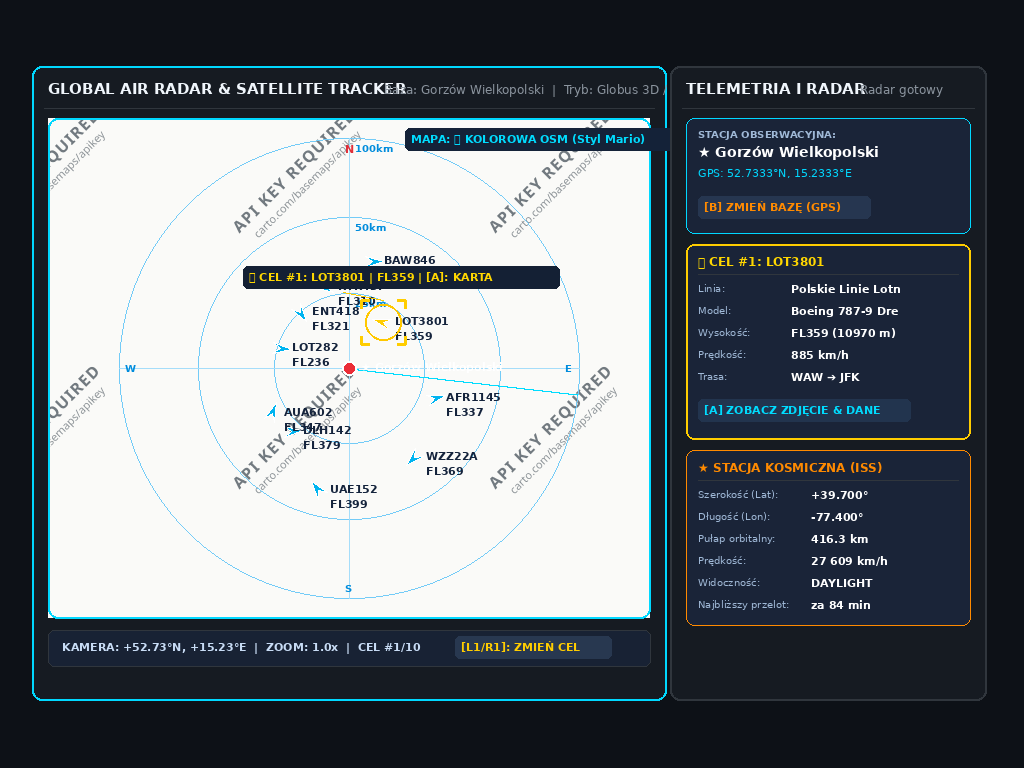
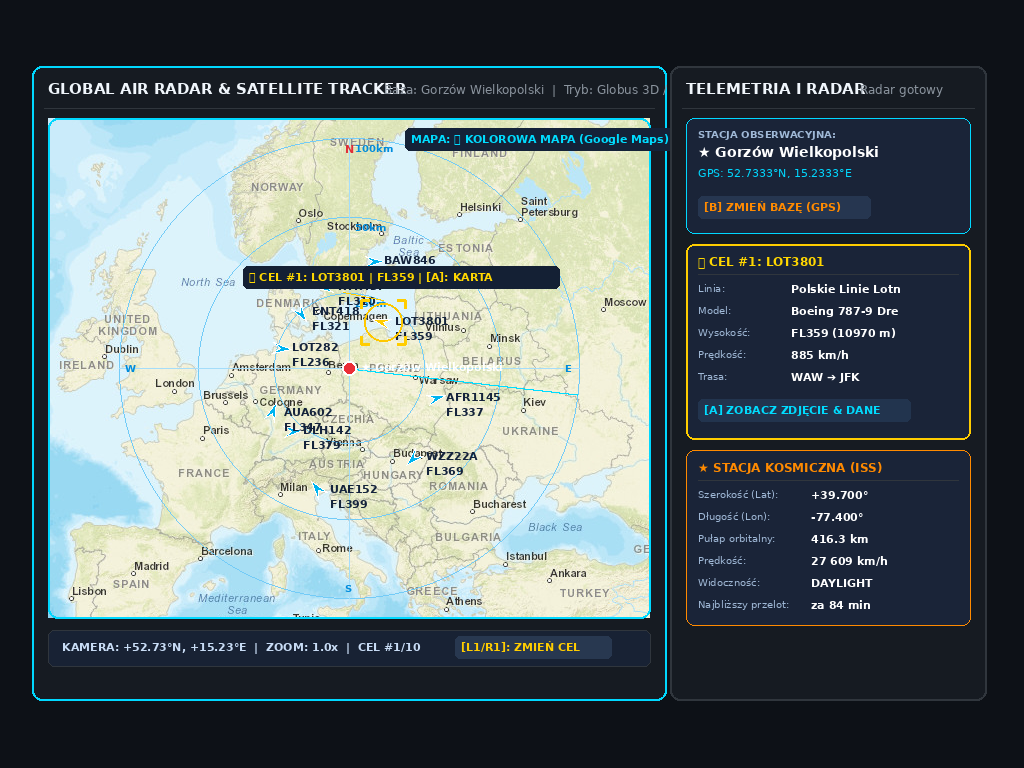
fix(tiles): Zastąpiono CartoDB otwartym serwerem ESRI Street Map (brak wymogu API key)

diff --git a/wasm.html b/wasm.html
@@ -1152,10 +1152,9 @@ json.dumps(py_mod.get_missing_tiles() if py_mod and hasattr(py_mod, 'get_missing
           let url = '';
           if (mode === 'SATELLITE') {
             url = `https://server.arcgisonline.com/ArcGIS/rest/services/World_Imagery/MapServer/tile/${z}/${y}/${x}.jpg`;
-          } else if (mode === 'VOYAGER') {
-            url = `https://basemaps.cartocdn.com/rastertiles/voyager/${z}/${x}/${y}.png`;
           } else {
-            url = `https://tile.openstreetmap.org/${z}/${x}/${y}.png`;
+            // Free open ArcGIS World Street Map: No API key required, full CORS support
+            url = `https://server.arcgisonline.com/ArcGIS/rest/services/World_Street_Map/MapServer/tile/${z}/${y}/${x}.jpg`;
           }
 
           try {

diff --git a/Apps/BrickDeck/modules/004_mod_air_radar.py b/Apps/BrickDeck/modules/004_mod_air_radar.py
@@ -118,7 +118,7 @@ class MapTileManager:
         if key in self.mem_cache:
             return self.mem_cache[key]
 
-        ext = "jpg" if mode == "SATELLITE" else "png"
+        ext = "jpg"
         filepath = os.path.join(self.cache_dir, f"{mode.lower()}_{z}_{x}_{y}.{ext}")
 
         if os.path.exists(filepath):
@@ -131,12 +131,9 @@ class MapTileManager:
 
         if mode == "SATELLITE":
             url = f"https://server.arcgisonline.com/ArcGIS/rest/services/World_Imagery/MapServer/tile/{z}/{y}/{x}.jpg"
-        elif mode == "VOYAGER":
-            # CartoDB Voyager: Colorful, bright, crisp map with vivid terrain & water (Mario style)
-            url = f"https://basemaps.cartocdn.com/rastertiles/voyager/{z}/{x}/{y}.png"
         else:
-            # Standard OpenStreetMap
-            url = f"https://tile.openstreetmap.org/{z}/{x}/{y}.png"
+            # ESRI World Street Map: Bright, vibrant, crisp colorful map (No API key required!)
+            url = f"https://server.arcgisonline.com/ArcGIS/rest/services/World_Street_Map/MapServer/tile/{z}/{y}/{x}.jpg"
 
         try:
             req = urllib.request.Request(url, headers={"User-Agent": "BrickDeck-AirRadar/2.0"})
@@ -225,11 +222,11 @@ class AirRadarModule(BaseModule):
         self.target_cam_lat = 52.7333
         self.target_cam_lon = 15.2333
 
-        # Map Modes: Colorful OSM (Mario Style) / Satellite (Google Earth) / Cyber 3D Globe
-        self.map_modes = ["VOYAGER", "SATELLITE", "CYBER"]
-        self.map_mode_idx = 0  # Default: Colorful bright map like Mario!
+        # Map Modes: Colorful Street Map (Google Maps style) / Satellite (Google Earth) / Cyber 3D Globe
+        self.map_modes = ["STREET", "SATELLITE", "CYBER"]
+        self.map_mode_idx = 0  # Default: Colorful bright street map!
         self.map_mode_names = [
-            "🎨 KOLOROWA OSM (Styl Mario)",
+            "🎨 KOLOROWA MAPA (Google Maps)",
             "🛰 SATELITA (Google Earth)",
             "🌐 GLOBUS 3D (Super Mario World)"
         ]
@@ -971,12 +968,11 @@ class AirRadarModule(BaseModule):
         # 1. MAP LAYER RENDERING
         # ----------------------------------------------------------------------
         if cur_mode != "CYBER":
-            # High-Resolution Stitched Map: CartoDB Voyager (Mario style colorful OSM) or Satellite
+            # High-Resolution Stitched Map: ESRI World Street Map (Google Maps / Mario style) or Satellite
             if self.current_viewport_map:
                 canvas.image.paste(self.current_viewport_map, (vx, vy))
             else:
-                # Colorful sunny sky/ocean fallback
-                fallback_col = (170, 215, 230) if cur_mode == "VOYAGER" else (22, 36, 56)
+                fallback_col = (240, 240, 246) if cur_mode == "STREET" else (22, 36, 56)
                 canvas.draw.rectangle([(vx, vy), (vx + vw, vy + vh)], fill=fallback_col)
                 canvas.draw.text((cx - 85, cy - 8), "POBIERANIE KAFELKÓW MAPY...", fill=(20, 45, 80), font=get_font(11, bold=True))
         else:
@@ -1118,7 +1114,7 @@ class AirRadarModule(BaseModule):
                 canvas.draw.polygon([(tip_x, tip_y), (tail_l_x, tail_l_y), (ax, ay), (tail_r_x, tail_r_y)],
                                     fill=p_col, outline=(255, 255, 255))
                 fl_level = int(fl.get("alt_m", 10000) * 3.28084 / 100)
-                canvas.draw.text((ax + 12, ay - 8), f"{fl['callsign']}\nFL{fl_level:03d}", fill=(20, 35, 60) if cur_mode == "VOYAGER" else (255, 255, 255), font=font_plane)
+                canvas.draw.text((ax + 12, ay - 8), f"{fl['callsign']}\nFL{fl_level:03d}", fill=(20, 35, 60) if cur_mode == "STREET" else (255, 255, 255), font=font_plane)
 
         # ----------------------------------------------------------------------
         # 4. PHYSICAL GAMEPAD TARGET LOCK-ON HUD (TrimUI Brick)

diff --git a/store/modules/004_mod_air_radar.py b/store/modules/004_mod_air_radar.py
@@ -118,7 +118,7 @@ class MapTileManager:
         if key in self.mem_cache:
             return self.mem_cache[key]
 
-        ext = "jpg" if mode == "SATELLITE" else "png"
+        ext = "jpg"
         filepath = os.path.join(self.cache_dir, f"{mode.lower()}_{z}_{x}_{y}.{ext}")
 
         if os.path.exists(filepath):
@@ -131,12 +131,9 @@ class MapTileManager:
 
         if mode == "SATELLITE":
             url = f"https://server.arcgisonline.com/ArcGIS/rest/services/World_Imagery/MapServer/tile/{z}/{y}/{x}.jpg"
-        elif mode == "VOYAGER":
-            # CartoDB Voyager: Colorful, bright, crisp map with vivid terrain & water (Mario style)
-            url = f"https://basemaps.cartocdn.com/rastertiles/voyager/{z}/{x}/{y}.png"
         else:
-            # Standard OpenStreetMap
-            url = f"https://tile.openstreetmap.org/{z}/{x}/{y}.png"
+            # ESRI World Street Map: Bright, vibrant, crisp colorful map (No API key required!)
+            url = f"https://server.arcgisonline.com/ArcGIS/rest/services/World_Street_Map/MapServer/tile/{z}/{y}/{x}.jpg"
 
         try:
             req = urllib.request.Request(url, headers={"User-Agent": "BrickDeck-AirRadar/2.0"})
@@ -225,11 +222,11 @@ class AirRadarModule(BaseModule):
         self.target_cam_lat = 52.7333
         self.target_cam_lon = 15.2333
 
-        # Map Modes: Colorful OSM (Mario Style) / Satellite (Google Earth) / Cyber 3D Globe
-        self.map_modes = ["VOYAGER", "SATELLITE", "CYBER"]
-        self.map_mode_idx = 0  # Default: Colorful bright map like Mario!
+        # Map Modes: Colorful Street Map (Google Maps style) / Satellite (Google Earth) / Cyber 3D Globe
+        self.map_modes = ["STREET", "SATELLITE", "CYBER"]
+        self.map_mode_idx = 0  # Default: Colorful bright street map!
         self.map_mode_names = [
-            "🎨 KOLOROWA OSM (Styl Mario)",
+            "🎨 KOLOROWA MAPA (Google Maps)",
             "🛰 SATELITA (Google Earth)",
             "🌐 GLOBUS 3D (Super Mario World)"
         ]
@@ -971,12 +968,11 @@ class AirRadarModule(BaseModule):
         # 1. MAP LAYER RENDERING
         # ----------------------------------------------------------------------
         if cur_mode != "CYBER":
-            # High-Resolution Stitched Map: CartoDB Voyager (Mario style colorful OSM) or Satellite
+            # High-Resolution Stitched Map: ESRI World Street Map (Google Maps / Mario style) or Satellite
             if self.current_viewport_map:
                 canvas.image.paste(self.current_viewport_map, (vx, vy))
             else:
-                # Colorful sunny sky/ocean fallback
-                fallback_col = (170, 215, 230) if cur_mode == "VOYAGER" else (22, 36, 56)
+                fallback_col = (240, 240, 246) if cur_mode == "STREET" else (22, 36, 56)
                 canvas.draw.rectangle([(vx, vy), (vx + vw, vy + vh)], fill=fallback_col)
                 canvas.draw.text((cx - 85, cy - 8), "POBIERANIE KAFELKÓW MAPY...", fill=(20, 45, 80), font=get_font(11, bold=True))
         else:
@@ -1118,7 +1114,7 @@ class AirRadarModule(BaseModule):
                 canvas.draw.polygon([(tip_x, tip_y), (tail_l_x, tail_l_y), (ax, ay), (tail_r_x, tail_r_y)],
                                     fill=p_col, outline=(255, 255, 255))
                 fl_level = int(fl.get("alt_m", 10000) * 3.28084 / 100)
-                canvas.draw.text((ax + 12, ay - 8), f"{fl['callsign']}\nFL{fl_level:03d}", fill=(20, 35, 60) if cur_mode == "VOYAGER" else (255, 255, 255), font=font_plane)
+                canvas.draw.text((ax + 12, ay - 8), f"{fl['callsign']}\nFL{fl_level:03d}", fill=(20, 35, 60) if cur_mode == "STREET" else (255, 255, 255), font=font_plane)
 
         # ----------------------------------------------------------------------
         # 4. PHYSICAL GAMEPAD TARGET LOCK-ON HUD (TrimUI Brick)
